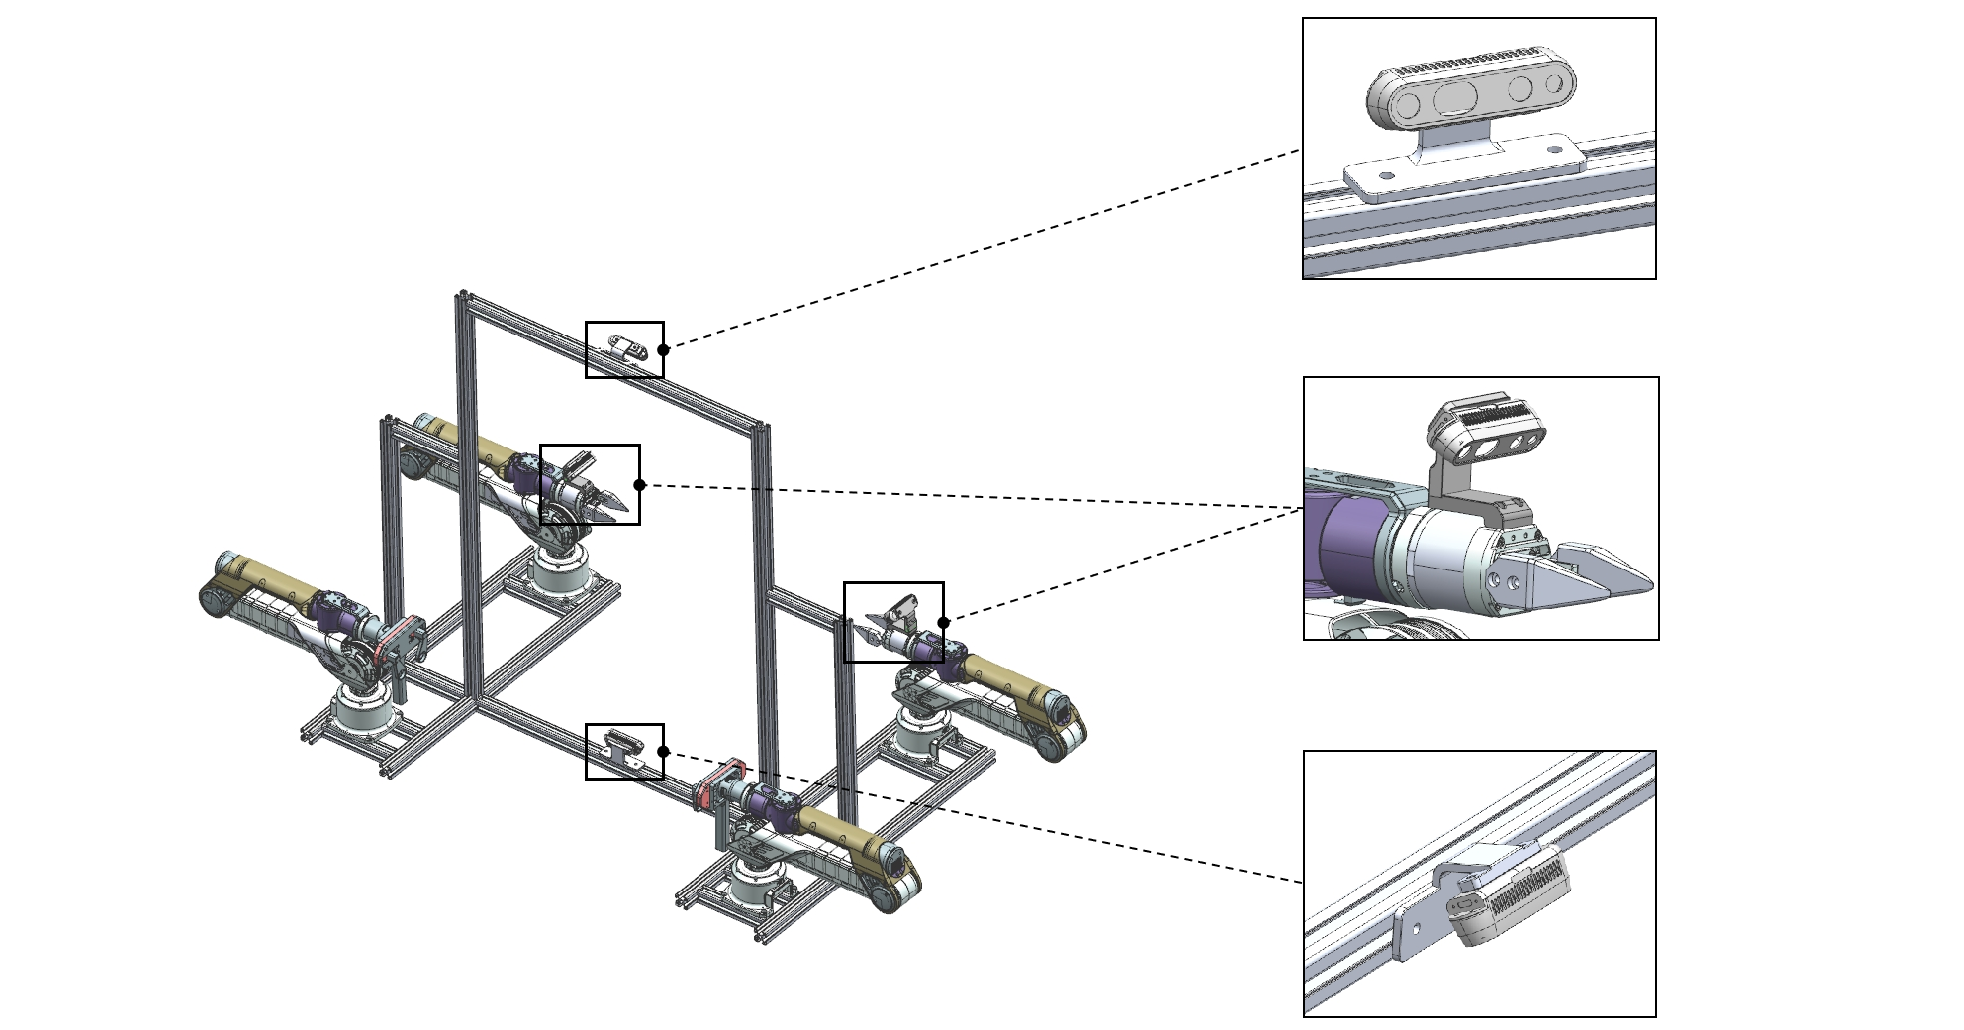
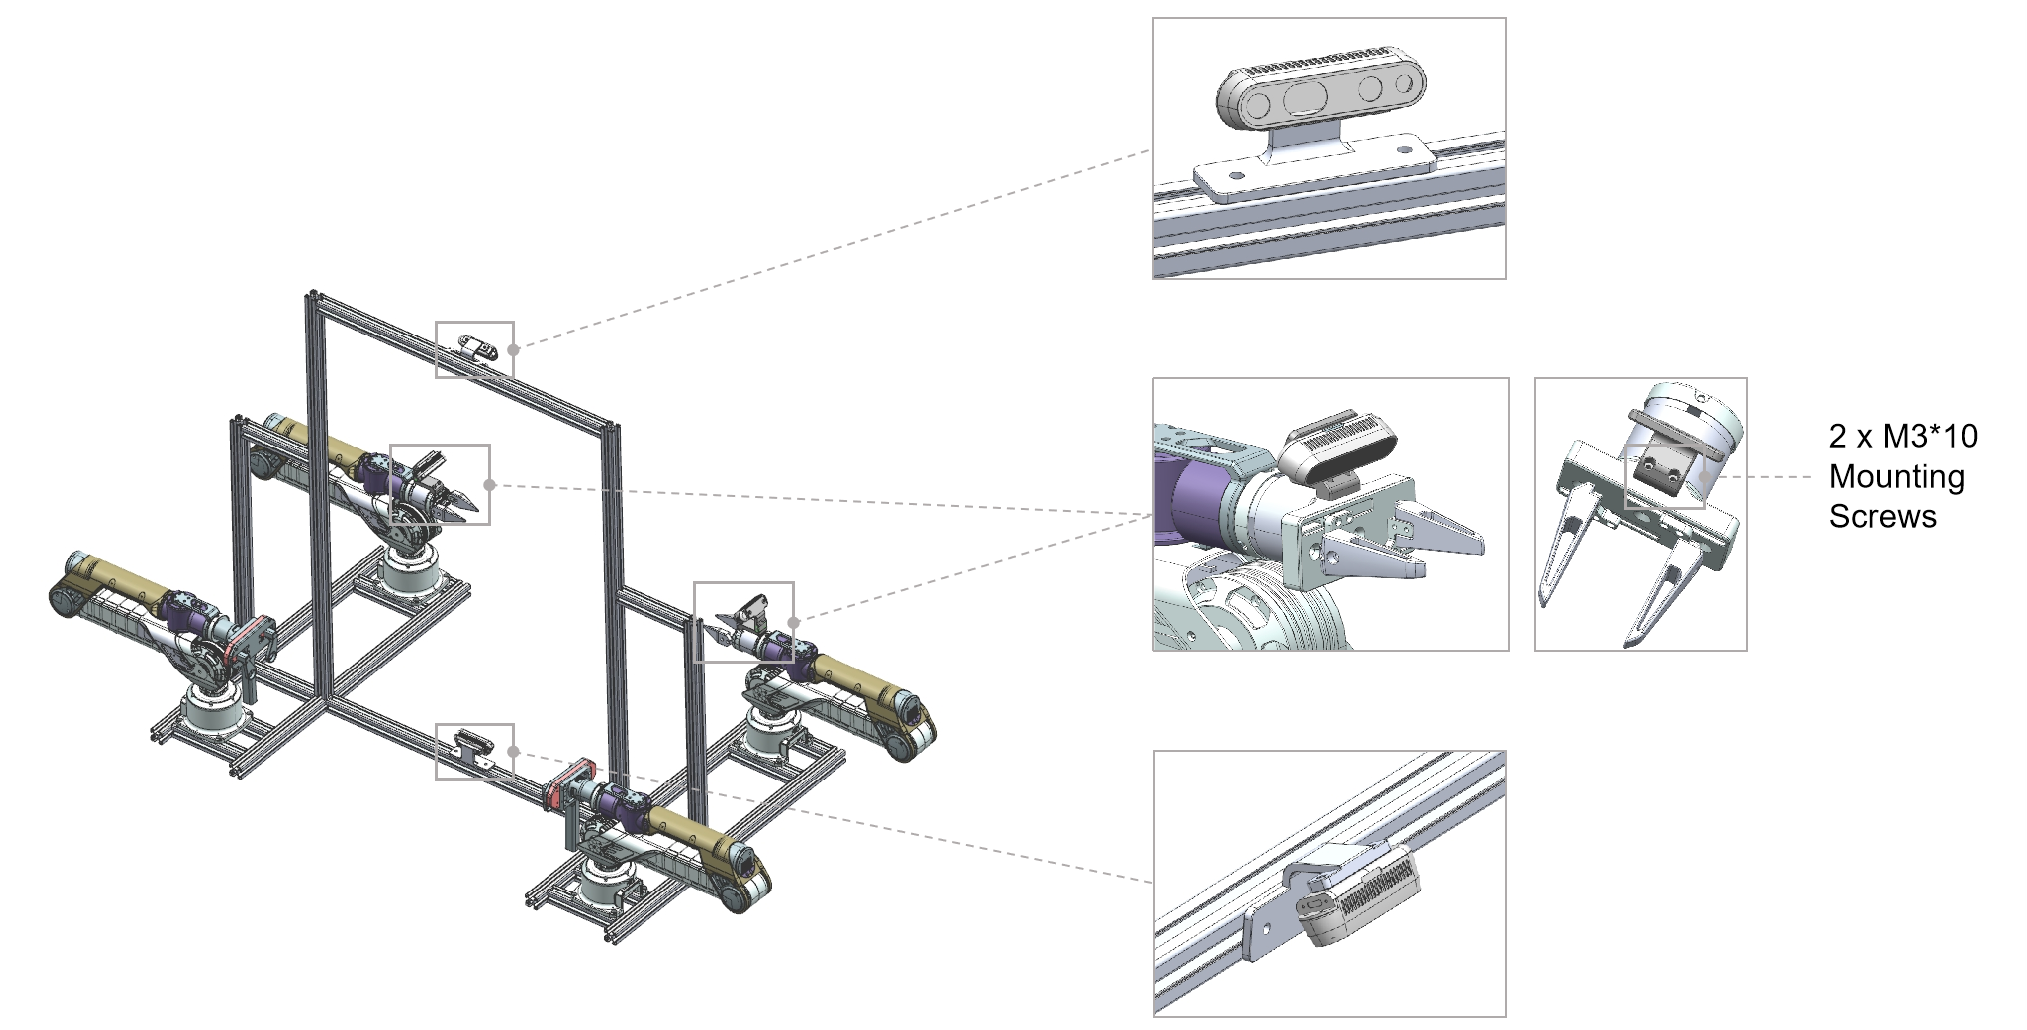
modify some contents

diff --git a/docs/Guide/B1/B1_Software_Guide.md b/docs/Guide/B1/B1_Software_Guide.md
@@ -1,15 +1,15 @@
-# Galaxea B1 Software Guide
+## Galaxea B1 Software Guide
 
-## Software Dependency
+### Software Dependency
 
 1. [Ubuntu](https://en.wikipedia.org/wiki/Ubuntu) 20.04 LTS
 2. ROS Noetic
 
-## Installation
+### Installation
 
-This [SDK](https://github.com/userguide-galaxea/B1_SDK) does not require recompilation. Please refer to the contents below.
+The SDK does not require recompilation. Please refer to the contents below.
 
-## CAN Connection Tutorial
+### CAN Connection Tutorial
 
 <u>Important: To ensure the USB-to-CAN Adapter works properly on Linux, please install the driver file that matches your system’s kernel version; otherwise, it may cause errors.</u>
 
@@ -17,7 +17,7 @@ This [SDK](https://github.com/userguide-galaxea/B1_SDK) does not require recompi
 
 Use the following command to check the current kernel version:
 
-```Bash
+```Plain
 name -r
 ```
 
@@ -43,6 +43,7 @@ The driver file name usually includes the version information. If you need drive
 </table>
 
 
+
 Use the following command to load the kernel module:
 
 ```Bash
@@ -54,7 +55,7 @@ sudo insmod 5.15.0_101.ko
 
 Use the following command to set the CAN interface baud rate to 1 Mbps:
 
-```Bash
+```Plain
 sudo ip link set can0 type can bitrate 1000000
 ```
 
@@ -62,13 +63,13 @@ sudo ip link set can0 type can bitrate 1000000
 
 Use the following command to bring up the CAN interface:
 
-```Bash
+```Plain
 sudo ip link set up can0
 ```
 
 If no errors occurred in the previous steps, use the following commands to check the CAN interface's configuration and status:
 
-```Bash
+```Plain
 sudo apt-get install net-tools
 ifconfig can0
 ```
@@ -77,7 +78,7 @@ ifconfig can0
 
 Use the following command to install the necessary dependencies for the driver:
 
-```Bash
+```Plain
  sudo apt-get install ros-noetic-socketcan-interface ros-noetic-can-msgs
 ```
 
@@ -88,102 +89,47 @@ Use the following commands to install the tool and monitor data from Galaxea B1 
 - B1 is already running, and
 - The CAN-to-USB Adapter is properly connected.
 
-```Bash
+```Plain
 sudo apt-get install can_utils
 candump can0
 ```
-
-## Development and Operation Tutorials
 
 ### First Move
 
 #### Launch the Chassis Node
 
-```Bash
-source devel/setup.bash
-roslaunch signal_chassis chassis_node.launch
+```shell
+source install/setup.bash
+roslaunch signal_chassis r1.launch   
 ```
 
-#### Run Keyboard Control
+#### Control the Chassis
 
-```Bash
-rosrun signal_chassis keyboard_control.py
+```shell
+rostopic pub /control_command signal_chassis/ControlCommand "header:
+  seq: 0
+  stamp: {secs: 0, nsecs: 0}
+  frame_id: ''
+motion_mode: 0
+x: 0.5
+y: 0.0
+w: 0.0"
 ```
 
-Use the following instructions to control the speed, angle, and motion mode of Galaxea B1.
 
-<table style="border-collapse: collapse; width: 100%;">
-    <thead>
-        <tr style="background-color: black; color: white; text-align: left;">
-            <th style="padding: 8px; width: 100px;">Item</th>
-            <th style="padding: 8px; width: 650px;">Description</th>
-            <th style="padding: 8px;">Notes</th>
-        </tr>
-    </thead>
-    <tbody>
-        <tr style="background-color: white; text-align: left;">
-            <td style="padding: 8px;">⬆</td>
-            <td style="padding: 8px;">Used to increase the linear speed, which returns to 0 when the key is released.</td>
-            <td style="padding: 8px;">Range (m/s): (-1, 1)</td>
-        </tr>
-        <tr style="background-color: white; text-align: left;">
-            <td style="padding: 8px;">⬇</td>
-            <td style="padding: 8px;">Used to decrease the linear speed, which returns to 0 when the key is released.</td>
-            <td style="padding: 8px;"></td>
-        </tr>
-        <tr style="background-color: white; text-align: left;">
-            <td style="padding: 8px;">⬅</td>
-            <td style="padding: 8px;">Used to increase the steering angle, which returns to 0 when the key is released.</td>
-            <td style="padding: 8px;">Range (°): <br />Motion Mode 0: (-45,45) <br />Motion Mode 1: (-90,90)</td>
-        </tr>
-        <tr style="background-color: white; text-align: left;">
-            <td style="padding: 8px;">➡</td>
-            <td style="padding: 8px;">Used to decrease the steering angle, which returns to 0 when the key is released.</td>
-            <td style="padding: 8px;"></td>
-        </tr>
-        <tr style="background-color: white; text-align: left;">
-            <td style="padding: 8px;">0</td>
-            <td style="padding: 8px;">Switch to Dual Ackerman Mode</td>
-            <td style="padding: 8px;"></td>
-        </tr>
-        <tr style="background-color: white; text-align: left;">
-            <td style="padding: 8px;">1</td>
-            <td style="padding: 8px;">Switch to Parallel Mode</td>
-            <td style="padding: 8px;"></td>
-        </tr>
-        <tr style="background-color: white; text-align: left;">
-            <td style="padding: 8px;">2</td>
-            <td style="padding: 8px;">Switch to Spinning Mode</td>
-            <td style="padding: 8px;"></td>
-        </tr>
-    </tbody>
-</table>
-
-
-
-
-
-To connect remotely, use the following command to establish an SSH connection. 
-
-- Replace the `name` and `IP` with the actual name and address of the industrial computer. 
-- The `-X` option enables X11 (X Window System) forwarding to allow the handling of remote graphical interfaces and the transmission of local keyboard and mouse inputs.
-
-```Bash
-ssh name@IP -X
-```
 
 ### Software Interface
 
 #### Driver Interface
 
-This interface is used for the chassis status feedback ROS package. The package defines multiple topics for posting the status of multiple motors in the chassis. The following are detailed descriptions of each topic and its related message types: 
+This interface is used for the chassis status feedback ROS package. The package defines multiple topics for posting the status of multiple motors in the chassis. The following are detailed descriptions of each topic and its related message types:
 
 <table style="width: 100%; border-collapse: collapse;">
   <thead>
     <tr style="background-color: black; color: white; text-align: left;">
       <th style="padding: 8px; border: 1px solid #ddd; width: 200px;">Topic Name</th>
-      <th style="padding: 8px; border: 1px solid #ddd; width: 300px;">Description</th>
-      <th style="padding: 8px; border: 1px solid #ddd;">Message Type</th>
+      <th style="padding: 8px; border: 1px solid #ddd; width: 200px;">Description</th>
+      <th style="padding: 8px; border: 1px solid #ddd; width: 400px;">Message Type</th>
     </tr>
   </thead>
   <tbody>
@@ -197,11 +143,12 @@ This interface is used for the chassis status feedback ROS package. The package 
 
 
 
+
 <table style="width: 100%; border-collapse: collapse;">
   <tr>
     <th style="background-color: black; color: white; vertical-align: middle; padding: 8px; border: 1px solid #ddd; width: 200px;">Topic Name</th>
-    <th style="background-color: black; color: white; vertical-align: middle; padding: 8px; border: 1px solid #ddd; width: 300px;">Field</th>
-    <th style="background-color: black; color: white; vertical-align: middle; padding: 8px; border: 1px solid #ddd;">Description</th>
+    <th style="background-color: black; color: white; vertical-align: middle; padding: 8px; border: 1px solid #ddd; width: 200px;">Field</th>
+    <th style="background-color: black; color: white; vertical-align: middle; padding: 8px; border: 1px solid #ddd;width: 350px;">Description</th>
   </tr>
   <tr style="background-color: white;">
     <td style="vertical-align: middle; padding: 8px; border: 1px solid #ddd; width: 200px;" rowspan="13">/hdas/motor_state</td>
@@ -254,82 +201,64 @@ This interface is used for the chassis status feedback ROS package. The package 
   </tr>
   <tr style="background-color: white;">
     <td style="vertical-align: middle; padding: 8px; border: 1px solid #ddd;">.motion_mode</td>
-    <td style="vertical-align: middle; padding: 8px; border: 1px solid #ddd;">Motion Mode 0: Dual Ackerman Mode <br /> Motion Mode 1: Parallel Mode <br /> Motion Mode 2: Spinning Mode</td>
+    <td style="vertical-align: middle; padding: 8px; border: 1px solid #ddd;">0: Dual Ackerman Mode <br /> 1: Parallel Mode <br />: Spinning Mode</td>
   </tr>
 </table>
 
-
-
-
-
 #### Control Interface
 
-The chassis control interface can be used to command the chassis to move at the target speed, which includes the combination of X, Y, and Yaw Rate:
+The  chassis control interface can be used to command the chassis to move at  the target speed, which includes the combination of X, Y, and Yaw Rate:
+
 <table style="border-collapse: collapse; width: 100%;">
     <thead>
         <tr style="background-color: black; color: white; text-align: left;">
             <th style="padding: 8px; width: 200px;">Topic Name</th>
-            <th style="padding: 8px; width: 300px;">Description</th>
-            <th style="padding: 8px;">Message Type</th>
+            <th style="padding: 8px; width: 200px;">Description</th>
+            <th style="padding: 8px; width: 400px;">Message Type</th>
         </tr>
     </thead>
     <tbody>
         <tr style="background-color: white; text-align: left;">
-            <td style="padding: 8px;">/cmd_vel</td>
+            <td style="padding: 8px;">/control_command</td>
             <td style="padding: 8px;">Issuing the chassis control signal</td>
-            <td style="padding: 8px;">geometry_msgs/Twist</td>
+            <td style="padding: 8px;">signal_chassis/ControlCommand.msg</td>
         </tr>
     </tbody>
 </table>
 
 
+
+
 <table style="border-collapse: collapse; width: 100%;">
     <thead>
         <tr style="background-color: black; color: white; text-align: left;">
             <th style="padding: 8px; width: 200px;">Topic Name</th>
-            <th style="padding: 8px; width: 300px;">Field</th>
-            <th style="padding: 8px;">Description</th>
+            <th style="padding: 8px; width: 200px;">Field</th>
+            <th style="padding: 8px; width: 400px;">Description</th>
         </tr>
     </thead>
     <tbody>
         <tr style="background-color: white; text-align: left;">
-            <td style="padding: 8px;"rowspan="13">/cmd_vel</td>
+            <td style="vertical-align: middle; padding: 8px;"rowspan="13">/control_command</td>
             <td style="padding: 8px;">header</td>
             <td style="padding: 8px;">Standard ROS header</td>
         </tr>
         <tr style="background-color: white; text-align: left;">
-            <td style="padding: 8px;">linear</td>
-            <td style="padding: 8px;">Control of linear speed</td>
+            <td style="padding: 8px;">.motion_mode</td>
+            <td style="padding: 8px;">0: Dual Ackerman Mode <br>1: Transition Mode<br>2: Spinning Mode<br>3: Vector Control Mode<br>4: Breaking Mode</td>
         </tr>
         <tr style="background-color: white; text-align: left;">
             <td style="padding: 8px;">.x</td>
-            <td style="padding: 8px;">Linear speed of x;<br />Range (m/s): (-1, 1)</td>
+            <td style="padding: 8px;">Not used for Mode 2 & Mode 4;<br> Mode 0: Linear speed of x in the range of (-1, 1) m/s<br>Mode 1: Linear speed of x-direction in the range of (-1, 1) m/s<br>Mode 3: Linear speed of x-direction in the range of (-1, 1) m/s</td>
         </tr>
         <tr style="background-color: white; text-align: left;">
             <td style="padding: 8px;">.y</td>
-            <td style="padding: 8px;">Not used</td>
+            <td style="padding: 8px;">Not used for Mode 0 & Mode 2 & Mode 4<br>Mode 1: Linear speed of y-direction in the range of (-1, 1) m/s<br>Mode 3: Linear speed of y-direction in the range of  (-1, 1) m/s </td>
         </tr>
         <tr style="background-color: white; text-align: left;">
-            <td style="padding: 8px;">.z</td>
-            <td style="padding: 8px;">Not used</td>
-        </tr>
-        <tr style="background-color: white; text-align: left;">
-            <td style="padding: 8px;">angular</td>
-            <td style="padding: 8px;">Control of motion mode and steering angle</td>
-        </tr>
-        <tr style="background-color: white; text-align: left;">
-            <td style="padding: 8px;">.x</td>
-            <td style="padding: 8px;">Motion Mode 0: Dual Ackerman Mode <br />Motion Mode 1: Translation Mode<br />Motion Mode 2: Spinning Mode</td>
-        </tr>
-        <tr style="background-color: white; text-align: left;">
-            <td style="padding: 8px;">.y</td>
-            <td style="padding: 8px;">Not used</td>
-        </tr>
-        <tr style="background-color: white; text-align: left;">
-            <td style="padding: 8px;">.z</td>
-            <td style="padding: 8px;">Control of steering angle;<br />Range (°): <br />Motion Mode 0: (-45, 45) <br />Motion Mode 1: (-90, 90) <br />Motion Mode 2: 0 by default</td>
+            <td style="padding: 8px;">.w</td>
+            <td style="padding: 8px;">Not used for Mode 1 & Mode 4;<br>Motion Mode 0: (-45°, 45°) <br />Motion Mode 2: angular speed in the range of (-3.7, 3.7) rad/s <br />Motion Mode 3: angular speed in the range of (-3.7, 3.7) rad/s</td>
         </tr>
     </tbody>
 </table>
-
 

diff --git a/docs/Guide/Tabletop_Teleopration/Tabletop_Teleopration.md b/docs/Guide/Tabletop_Teleopration/Tabletop_Teleopration.md
@@ -46,7 +46,7 @@
 
 ![img](assets/aloha_3.png)
 ### Camera Setting
-
+<u>Important: please use the M3*10 mounting screws to secure the camera holder on the arm.</u>
 ![img](assets/aloha_2.png)
 
 If you need structural files, please visit our [aloha stp files repository](https://github.com/userguide-galaxea/aloha) to access the resources.
